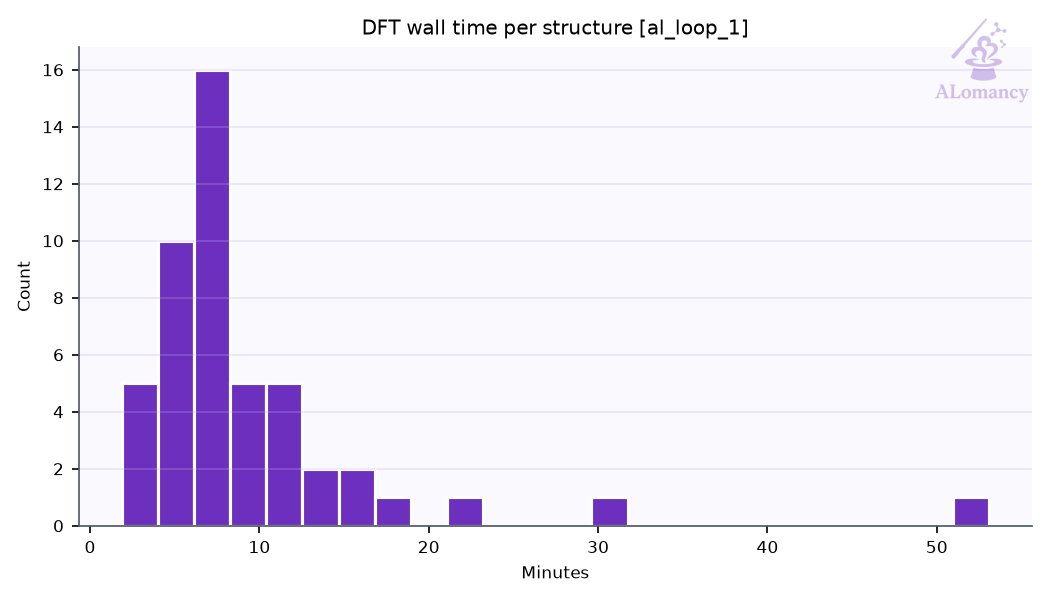
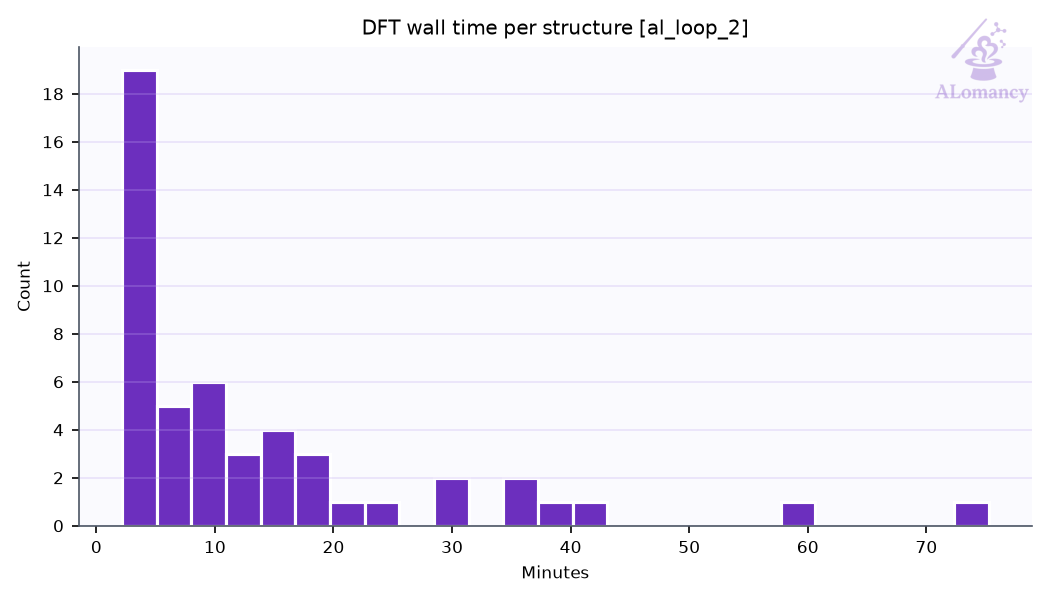
update viper_omat_ezga_committee, viper_omat_ezga_novelty

diff --git a/alomancy/viper_omat_ezga_committee/report/report.md b/alomancy/viper_omat_ezga_committee/report/report.md
@@ -1,25 +1,26 @@
-# ALomancy report: al_loop_1
+# ALomancy report: al_loop_2
 
-Workflow `committee_uncertainty` · trainer `mace` · generator `ezga` · evaluator `qe` · generated 2026-11-23T06:09:33
+Workflow `committee_uncertainty` · trainer `mace` · generator `ezga` · evaluator `qe` · generated 2026-11-27T08:09:31
 
-**Status:** 💡 1 info · 3 warning(s) logged
+**Status:** 💡 2 infos · 2 warning(s) logged
 
 ## Headline
 
-| | loop 0 | loop 1 | change |
+| | loop 1 | loop 2 | change |
 |---|---:|---:|---:|
-| Best model test force MAE (eV/Å) | 0.0683 | 0.0685 | +0% |
-| Best model test energy MAE (meV/atom) | 32 | 44.2 | +38% |
-| Training structures | 436 | 524 | +20% |
-| Test structures | 27 | 37 | +37% |
-| New structures this loop | 47 | 49 | +4% |
-| Warnings / errors logged | 5 | 3 | -40% |
+| Best model test force MAE (eV/Å) | 0.0685 | 0.0793 | +16% |
+| Best model test energy MAE (meV/atom) | 44.2 | 35.5 | -20% |
+| Training structures | 524 | 614 | +17% |
+| Test structures | 37 | 47 | +27% |
+| New structures this loop | 49 | 50 | +2% |
+| Warnings / errors logged | 3 | 2 | -33% |
 
-Best model: fit_0 of 3 (chosen on the `valid` split).
+Best model: fit_2 of 3 (chosen on the `valid` split).
 
 ## Issues & suggestions
 
-- 💡 **queue_dominated**: high_accuracy_evaluation spent 99% of its time (97.5 h) queued. Raise max_num_of_concurrent_jobs in the HPC profile or use a less busy partition.
+- 💡 **queue_dominated**: high_accuracy_evaluation spent 99% of its time (94.2 h) queued. Raise max_num_of_concurrent_jobs in the HPC profile or use a less busy partition.
+- 💡 **overfitting**: The best model's test force MAE (0.0793 eV/Å) is 2.3x its training MAE (0.0348 eV/Å). The test set covers configurations training doesn't: keep adding data, or raise general.dataset_kwargs.valid_fraction to select models on held-out data.
 
 ## Trends
 
@@ -27,6 +28,7 @@ Best model: fit_0 of 3 (chosen on the `valid` split).
 |---:|---:|---:|---:|---:|---:|---:|---:|
 | 0 | 0.0683 | 436 | 47 | 47/50 | 100% | 0 | 5 |
 | 1 | 0.0685 | 524 | 49 | 49/50 | 100% | 0 | 3 |
+| 2 | 0.0793 | 614 | 50 | 50/50 | 100% | 0 | 2 |
 
 ![Best-model MAE per loop](plots/training_al_loop_mae_plot.png)
 
@@ -36,7 +38,7 @@ Best model: fit_0 of 3 (chosen on the `valid` split).
 
 ![Best model parity](plots/best_model_parity.png)
 
-Median relative error: train energy 0.7%, force 5.7%; test energy 0.3%, force 10.9%.
+Median relative error: train energy 0.4%, force 5.5%; test energy 0.3%, force 15.5%.
 Energies with |formation energy| < 0.05 eV/atom and atoms with |F| < 0.1 eV/Å are left out; force error is |ΔF|/|F| per atom.
 
 ![Best model percentage error](plots/best_model_percent_error.png)
@@ -46,17 +48,17 @@ Energies with |formation energy| < 0.05 eV/atom and atoms with |F| < 0.1 eV/Å a
 | config_type | Train | Test | Excluded: quality filter | total |
 |---|---:|---:|---:|---:|
 | IsolatedAtom | 1 | 0 | 0 | 1 |
-| high_sd | 165 | 19 | 8 | 192 |
+| high_sd | 255 | 29 | 8 | 292 |
 | init_MP | 7 | 1 | 0 | 8 |
 | init_amorphous | 26 | 3 | 0 | 29 |
 | init_dimer | 79 | 0 | 0 | 79 |
 | init_rattle | 41 | 1 | 232 | 274 |
 | init_stretch_compress | 126 | 13 | 129 | 268 |
 | init_trimer | 79 | 0 | 0 | 79 |
-| **all** | **524** | **37** | **369** | **930** |
+| **all** | **614** | **47** | **369** | **1030** |
 
-- Redundancy removal: 0 structure(s) flagged in total, 0 of this loop's 49 new.
-- DFT geometry-optimisation starting frames: 49 stored this loop, 49 used (the rest excluded by the train/test filters or redundancy removal).
+- Redundancy removal: 0 structure(s) flagged in total, 0 of this loop's 50 new.
+- DFT geometry-optimisation starting frames: 50 stored this loop, 50 used (the rest excluded by the train/test filters or redundancy removal).
 - Quality filters: high_force: 369, formation_energy: 17.
 
 ![Training set composition](plots/training_set_composition.png)
@@ -65,17 +67,17 @@ Energies with |formation energy| < 0.05 eV/atom and atoms with |F| < 0.1 eV/Å a
 
 Redundancy removal flags near-duplicate training structures, so the model isn't trained on many copies of the same geometry. Each structure is described by `char_vec_128`: all of its interatomic distances, sorted and resampled to 128 values (`global_descriptor/atomic_distance_descriptor.make_char_vec`). Two structures count as duplicates when the Euclidean distance between their descriptors is below a tolerance: in database order, each structure still in the training set is kept unless it is within the tolerance of one already kept. The plot sweeps that tolerance and counts how many structures are kept at each value. **We are looking for plateaus** (shaded): ranges where the count doesn't change, so the result doesn't depend on the exact tolerance. The orange line (right axis) is the number of structures removed between consecutive tolerance steps, the gradient of the count: zero on a plateau. The start of the lowest plateau at least `general.redundancy_kwargs.min_plateau_width` of the swept range wide is used (dashed line). Nothing is flagged when no plateau qualifies, or when it would flag more than `max_flagged_fraction` of the structures; `general.redundancy_kwargs.tolerance` sets the tolerance directly.
 
-- This loop: 239 structures probed; the lowest plateau would flag more than 50% of them, so nothing was flagged.
+- This loop: 329 structures probed; the lowest plateau would flag more than 50% of them, so nothing was flagged.
 
 ![Redundancy tolerance probe](plots/redundancy_tolerance_probe.png)
 
 ## DFT
 
-- Structures: 49 returned of 50 submitted (49 relaxed, 0 single point).
-- Geometry optimisation: 49/49 reached the force ceiling (0.05 eV/Å); steps mean 21.0, median 17, max 138 of 200 allowed.
-- Average DFT time per relaxation: 9.5 min (median 7.3, max 53.1; 49 structures).
+- Structures: 50 returned of 50 submitted (50 relaxed, 0 single point).
+- Geometry optimisation: 50/50 reached the force ceiling (0.05 eV/Å); steps mean 23.2, median 16, max 157 of 200 allowed.
+- Average DFT time per relaxation: 13.6 min (median 8.7, max 75.3; 50 structures).
 - Largest per-atom force after DFT: median 0.04, max 0.05 eV/Å.
-- DFT phase wall-clock: 98.5 h (mean queue time 5849 min).
+- DFT phase wall-clock: 95.6 h (mean queue time 5652 min).
 
 **Structures evaluated with DFT this loop (final geometries)**
 
@@ -83,14 +85,14 @@ Redundancy removal flags near-duplicate training structures, so the model isn't 
 
 ## MLIP training: mace
 
-- Best fit (fit_0) trained for 299 epochs, stage two from epoch 240; weights kept from epoch 260.
+- Best fit (fit_2) trained for 299 epochs, stage two from epoch 240; weights kept from epoch 276.
 
 ![Best model training curve](plots/best_model_training_curve.png)
 
 ## Structure generation: EZGA
 
 - Seeds: 8, generations run: 11 (max_generations 10, population 100)
-- Structures generated: 550, taken as candidates: 500 (newest first, back to generation 4)
+- Structures generated: 603, taken as candidates: 500 (newest first, back to generation 5)
 - Mutations: mutation_rattle, mutation_random_strain, bounded_mutation_add, bounded_mutation_remove
 
 ![Ezga generations](plots/ezga_generations.png)
@@ -105,7 +107,7 @@ Redundancy removal flags near-duplicate training structures, so the model isn't 
 
 ## Selection: committee uncertainty
 
-- 500 candidates scored; 50 selected (10 %; max force std dev ≥ 0.132 eV/Å).
+- 500 candidates scored; 50 selected (10 %; max force std dev ≥ 0.147 eV/Å).
 
 ![Committee force std dev](plots/committee_force_std_dev.png)
 
@@ -115,8 +117,7 @@ Redundancy removal flags near-duplicate training structures, so the model isn't 
 |---|---|---:|
 | `dft_summary` | DFT batch summary | 1 |
 | `ezga_summary` | EZGA summary | 1 |
-| `job_failed` | remote job failed | 1 |
-| `job_still_queued` | jobs still queued after their time limit (waiting on) | 139 |
+| `job_still_queued` | jobs still queued after their time limit (waiting on) | 150 |
 | `jobs_started` | remote jobs started | 4 |
 | `quality_filtered` | train/test quality filter passes | 2 |
 | `redundancy_cap_hit` | redundancy removal skipped (would flag too many) | 1 |
